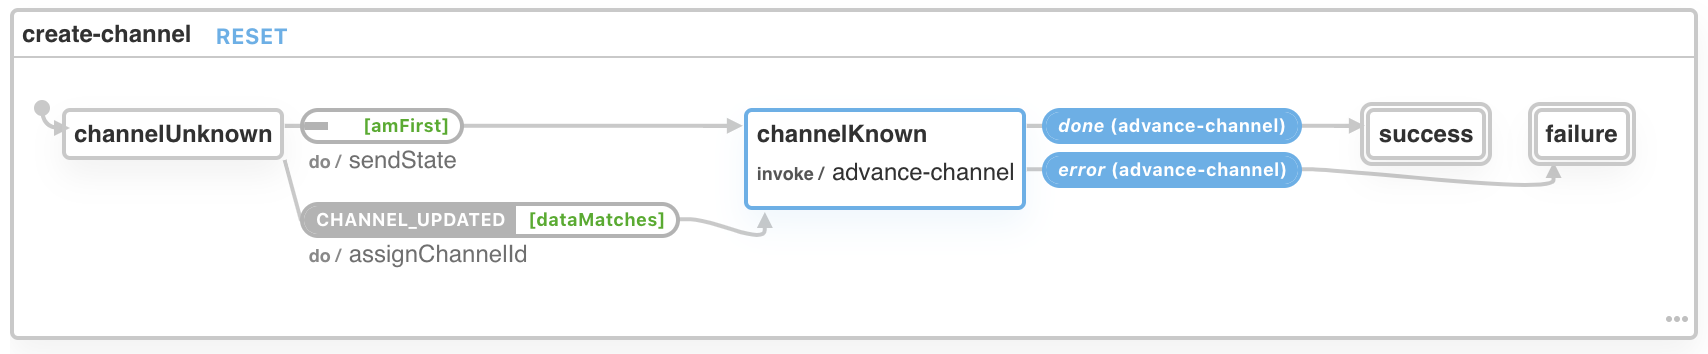
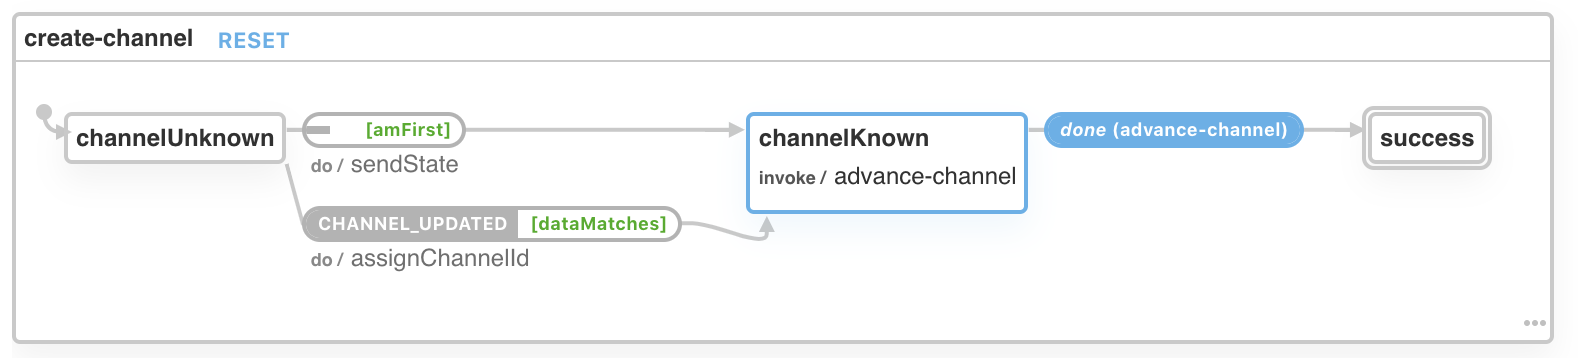
Clean up create-channel

Changed region(s): [[0.0, 0.0, 0.9937, 0.9633]]

diff --git a/packages/wallet-specs/src/protocols/create-channel/protocol.ts b/packages/wallet-specs/src/protocols/create-channel/protocol.ts
@@ -1,27 +1,15 @@
 import { Address, Outcome, PrivateKey } from '../../';
-import { saveConfig } from '../..//utils';
+import { saveConfig } from '../../utils';
 
 const PROTOCOL = 'create-channel';
 
-interface CommonContext {
-  ourIndex: number;
+export interface Init {
   participants: Address[];
   outcome: Outcome;
   appDefinition: Address;
   appData: string;
   privateKey: PrivateKey;
-  clearedToSend: boolean;
 }
-
-interface ChannelUnknown {
-  value: 'channel-unknown';
-  context: CommonContext;
-}
-
-type Init = ChannelUnknown['context'];
-
-// TODO: Figure out how to make the following types more systematic
-type Guard = 'amFirst' | 'dataMatches';
 
 const channelUnknown = {
   on: {
@@ -37,44 +25,29 @@ const channelUnknown = {
     },
   },
 };
+
 const channelKnown = {
   invoke: {
     src: 'advance-channel',
     data: 'passChannelId',
     onDone: 'success',
-    onError: 'failure',
   },
 };
 
-const createChannelConfig = {
+const config = {
   key: PROTOCOL,
   initial: 'channelUnknown',
   states: {
     channelUnknown,
     channelKnown,
     success: { type: 'final' },
-    failure: { type: 'final' },
   },
 };
 
-// GRAPHICS
-
 const dummyGuard = 'context => true';
-const guards: Record<Guard, string> = {
+const guards = {
   amFirst: dummyGuard,
   dataMatches: dummyGuard,
 };
-
-const sampleContext: Init = {
-  participants: ['me', 'you'],
-  privateKey: 'secret',
-  ourIndex: 0,
-  outcome: [],
-  appData: '0x',
-  appDefinition: 'contractAddress',
-  clearedToSend: true,
-};
-
-export const config = { ...createChannelConfig, context: sampleContext };
 
 saveConfig(config, { guards });

diff --git a/packages/wallet-specs/src/protocols/create-channel/protocol.config.js b/packages/wallet-specs/src/protocols/create-channel/protocol.config.js
@@ -17,20 +17,9 @@ const config = {
         src: 'advance-channel',
         data: 'passChannelId',
         onDone: 'success',
-        onError: 'failure',
       },
     },
     success: { type: 'final' },
-    failure: { type: 'final' },
-  },
-  context: {
-    participants: ['me', 'you'],
-    privateKey: 'secret',
-    ourIndex: 0,
-    outcome: [],
-    appData: '0x',
-    appDefinition: 'contractAddress',
-    clearedToSend: true,
   },
 };
 const guards = { amFirst: context => true, dataMatches: context => true };
